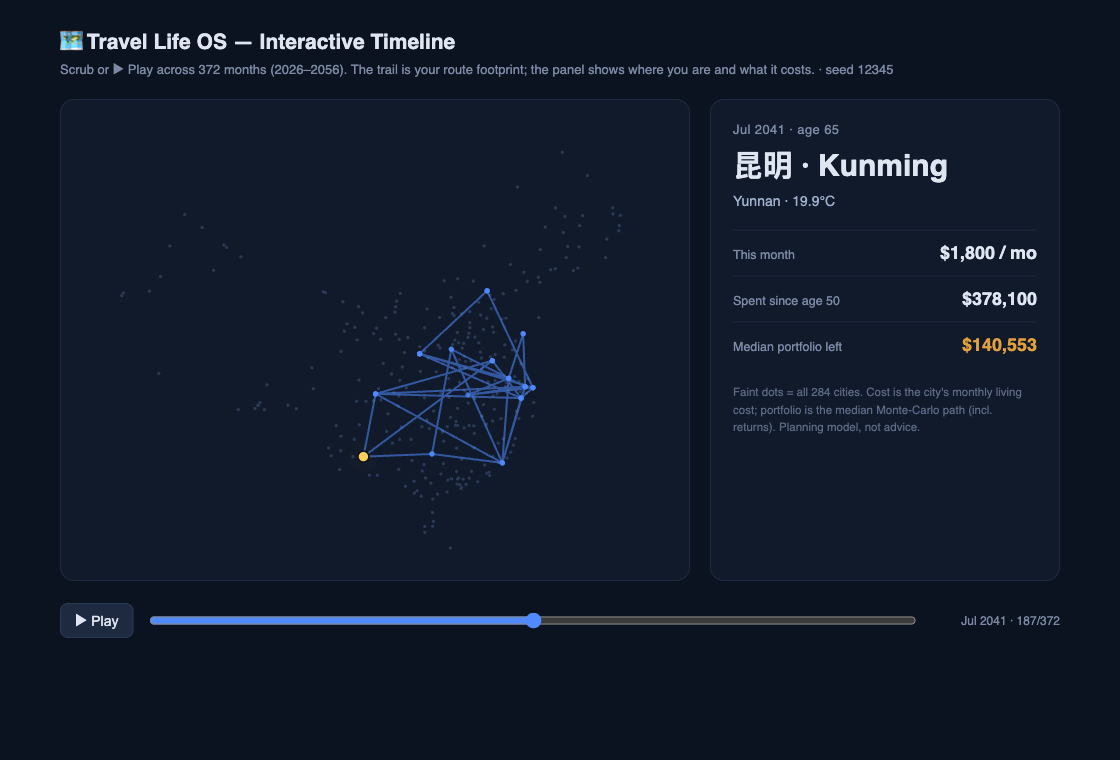
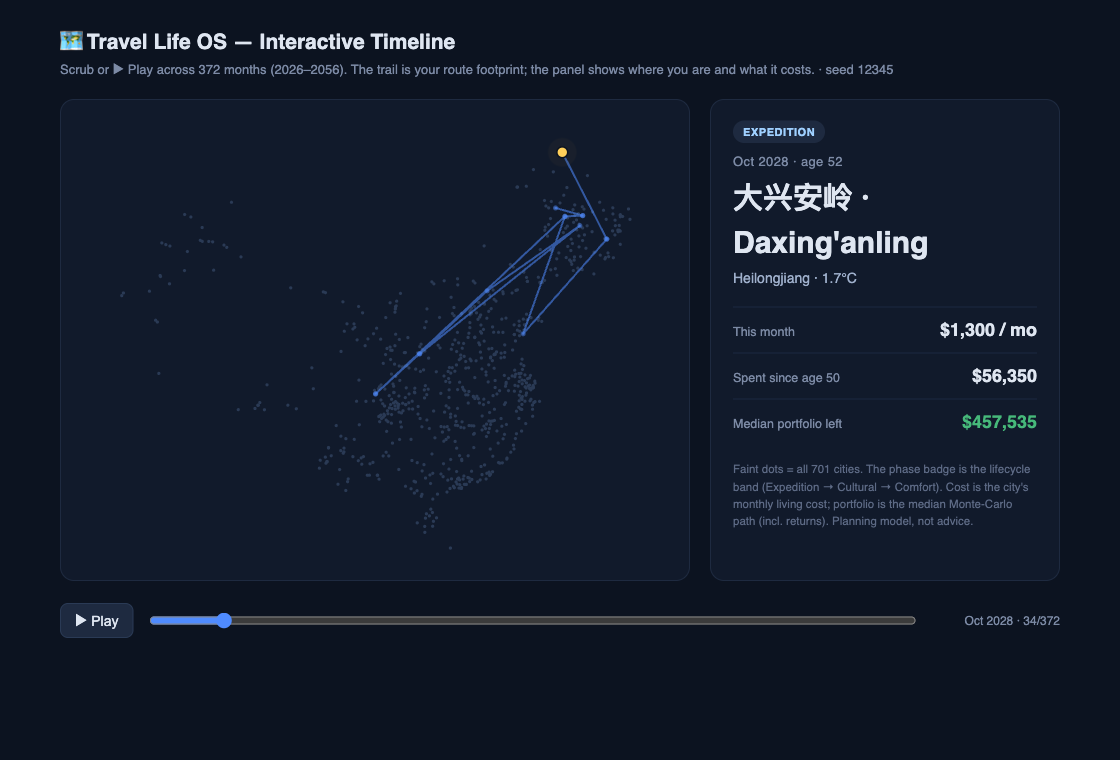
Timeline: dynamic city count in legend + refreshed lifecycle hero image
Legend now reflects the real dataset size (701) and notes the phase badge.
README hero updated to an Expedition-phase frontier shot (Daxing'anling).

diff --git a/docs/timeline.html b/docs/timeline.html
@@ -53,7 +53,7 @@
         <div><span>Spent since age 50</span><b id="spent"></b></div>
         <div><span>Median portfolio left</span><b id="rem"></b></div>
       </div>
-      <div class="legend">Faint dots = all 284 cities. Cost is the city's monthly living cost; portfolio is the median Monte-Carlo path (incl. returns). Planning model, not advice.</div>
+      <div class="legend">Faint dots = all 701 cities. The phase badge is the lifecycle band (Expedition → Cultural → Comfort). Cost is the city's monthly living cost; portfolio is the median Monte-Carlo path (incl. returns). Planning model, not advice.</div>
     </div>
   </div>
 

diff --git a/outputs/timeline.html b/outputs/timeline.html
@@ -53,7 +53,7 @@
         <div><span>Spent since age 50</span><b id="spent"></b></div>
         <div><span>Median portfolio left</span><b id="rem"></b></div>
       </div>
-      <div class="legend">Faint dots = all 284 cities. Cost is the city's monthly living cost; portfolio is the median Monte-Carlo path (incl. returns). Planning model, not advice.</div>
+      <div class="legend">Faint dots = all 701 cities. The phase badge is the lifecycle band (Expedition → Cultural → Comfort). Cost is the city's monthly living cost; portfolio is the median Monte-Carlo path (incl. returns). Planning model, not advice.</div>
     </div>
   </div>
 

diff --git a/src/dashboard/timeline_generator.ts b/src/dashboard/timeline_generator.ts
@@ -104,7 +104,7 @@ export function renderTimeline(input: TimelineInput): string {
         <div><span>Spent since age 50</span><b id="spent"></b></div>
         <div><span>Median portfolio left</span><b id="rem"></b></div>
       </div>
-      <div class="legend">Faint dots = all 284 cities. Cost is the city's monthly living cost; portfolio is the median Monte-Carlo path (incl. returns). Planning model, not advice.</div>
+      <div class="legend">Faint dots = all ${input.cities.length} cities. The phase badge is the lifecycle band (Expedition → Cultural → Comfort). Cost is the city's monthly living cost; portfolio is the median Monte-Carlo path (incl. returns). Planning model, not advice.</div>
     </div>
   </div>
 

diff --git a/README.md b/README.md
@@ -58,7 +58,7 @@ Each year is split into 12 months and each month placed in its most comfortable 
 
 ![Interactive timeline — scrub the 30-year route on a China map, with live city + cost](docs/timeline.png)
 
-> ⭐ **`open outputs/timeline.html`** — scrub or ▶ Play across all 372 months; the blue trail is your route footprint, the panel shows where you are and what it costs (above: Jul 2041, age 65, Kunming — $1,800/mo, $378k spent, $140k left).
+> ⭐ **`open outputs/timeline.html`** — scrub or ▶ Play across all 372 months; the blue trail is your route footprint, the phase badge is the lifecycle band (above: Oct 2028, age 52 — **Expedition** phase, Daxing'anling in the far-northeast frontier; $1,300/mo, $56k spent, $458k left).
 
 > Planning model, **not financial advice.** Non-geographic fields are rule-based estimates (see [Data honesty](#data-honesty)).
 